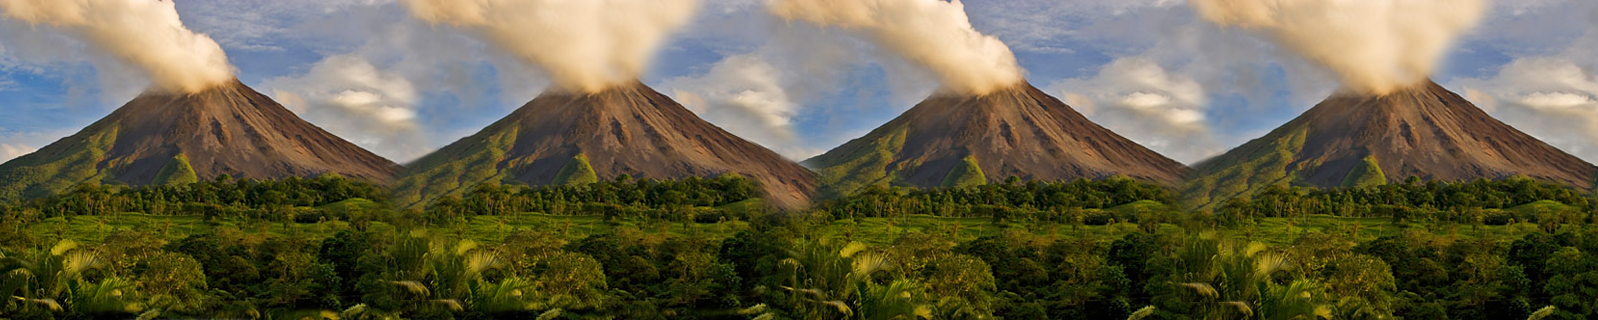
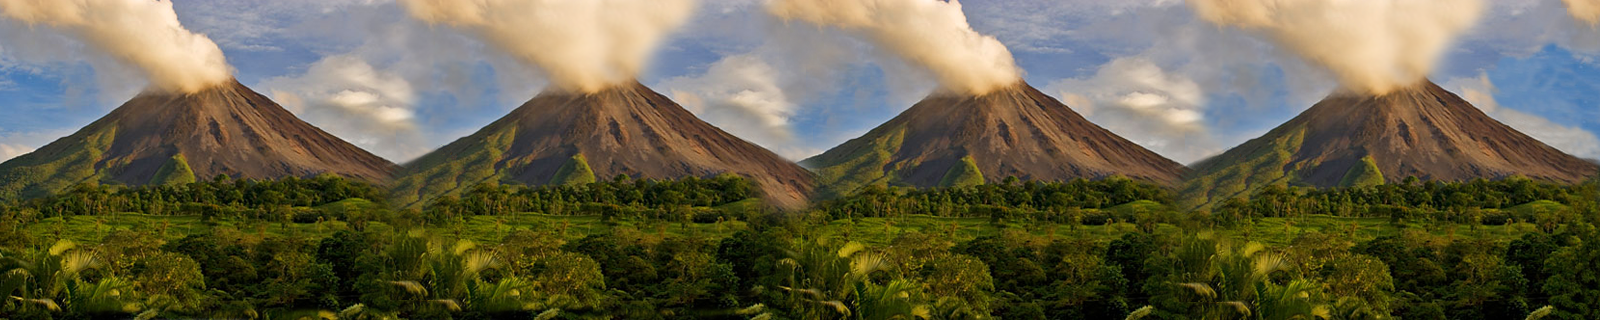
contrasaurus" bite triggers before he runs into enemies

diff --git a/site/javascripts/contrasaurus/game_object.js b/site/javascripts/contrasaurus/game_object.js
@@ -22,6 +22,25 @@ function GameObject(I) {
     yVelocity: 0
   });
 
+  function dropPowerup(imgFile, callback) {
+    addGameObject(Powerup({
+      callback: callback,
+      sprite: Sprite.load("images/weapons/" + imgFile + ".png"),
+      x: dino.position().x,
+      xVelocity: dino.velocity().x,
+      y: 0,
+      yVelocity: 0
+    }));
+  }
+
+  function dropWeaponPowerup(imgFile, weaponClass) {
+    dropPowerup(imgFile, function(hitTarget) {
+      if(hitTarget.addWeapon) {
+        hitTarget.addWeapon(weaponClass());
+      }
+    });
+  }
+
   function move() {
     I.x += I.xVelocity;
     I.y += I.yVelocity;
@@ -55,6 +74,9 @@ function GameObject(I) {
       if (I.active == true) {
         I.active = false;
         self.trigger('destroy');
+        if(I.drops && Math.random() < I.dropFrequency) {
+          dropWeaponPowerup("chainsaw", Chainsaw)
+        }
       }
     },
 
@@ -140,6 +162,11 @@ function GameObject(I) {
       if (I.health <= 0) {
         self.destroy();
         addScore(I.pointsWorth);
+      }
+
+      // HAX: there is probably a better way to trigger the bite animation
+      if(I.collisionType === "biteTrigger") {
+        dino.bump();
       }
     },
 

diff --git a/site/javascripts/contrasaurus/levels/level.js b/site/javascripts/contrasaurus/levels/level.js
@@ -61,7 +61,9 @@ function Level(I) {
       enemy: [],
       enemyBullet: [],
       dino: [],
-      dinoBullet: []
+      dinoBullet: [],
+      biteTrigger: [],
+      levelHazard: []
     };
   }
 
@@ -92,8 +94,26 @@ function Level(I) {
       });
     });
 
+    // Level hazards can hit both dinos and enemies
+//    $.each(collidables.levelHazards, function(i, bullet) {
+//      $.each(collidables.dino, function(j, dino) {
+//        circleCollision(bullet, dino);
+//      });
+//
+//      $.each(collidables.enemy, function(j, enemy) {
+//        circleCollision(bullet, enemy);
+//      });
+//    });
+
     // Dino bullets can hit enemies
     $.each(collidables.dinoBullet, function(i, bullet) {
+      $.each(collidables.enemy, function(j, enemy) {
+        circleCollision(bullet, enemy);
+      });
+    });
+
+    // Bite triggers can hit enemies
+    $.each(collidables.biteTrigger, function(i, bullet) {
       $.each(collidables.enemy, function(j, enemy) {
         circleCollision(bullet, enemy);
       });

diff --git a/site/javascripts/contrasaurus/weapons/bite.js b/site/javascripts/contrasaurus/weapons/bite.js
@@ -1,0 +1,33 @@
+function Bite(I) {
+  I = I || {};
+
+  $.reverseMerge(I, {
+    duration: 1000,
+    exitPoints: [Point(50, 60)],
+    radius: 5,
+    sprite: Sprite.EMPTY,
+    theta: 0
+  });
+
+  var self = Weapon(I).extend({
+    getTransform: function() {
+      return Matrix.rotation(I.theta, Point(-52, -12)).translate(122, -5);
+    },
+
+    generateProjectile: function(direction, position) {
+      return Bullet(direction, {
+        collideDamage: 0,
+        collisionType: "biteTrigger",
+        duration: 1,
+        effectCount: 0,
+        speed: 0,
+        sprite: Sprite.EMPTY,
+        radius: 10,
+        x: position.x,
+        y: position.y
+      });
+    }
+  });
+
+  return self;
+}

diff --git a/site/javascripts/contrasaurus/dinosaur.js b/site/javascripts/contrasaurus/dinosaur.js
@@ -3,6 +3,7 @@ function Dinosaur() {
   var height = 128;
 
   var jetpack = Jetpack();
+  var bite = Bite();
 
   //using this to indicate the first time the jetpack goes off
   var jetpackFlag = false;
@@ -20,8 +21,8 @@ function Dinosaur() {
   var boss = false;
   var airborne = true;
 
-  var weapons = [];
-  var activeWeapons = [];
+  var weapons = [bite];
+  var activeWeapons = [bite];
 
   var pitchAngle = 0;
   var leftBaseAngle = Math.PI;

diff --git a/site/javascripts/contrasaurus/weapons/jetpack.js b/site/javascripts/contrasaurus/weapons/jetpack.js
@@ -68,9 +68,9 @@ function Jetpack(I) {
     shoot: $.noop,
 
     update: function() {
-      if(Math.random() < 0.01 && I.jetpackCounter <= 0) {
-        I.jetpackCounter = 50 + rand(50);
-      }
+//      if(Math.random() < 0.01 && I.jetpackCounter <= 0) {
+//        I.jetpackCounter = 50 + rand(50);
+//      }
 
       if (I.jetpackCounter > 0) {
         I.jetpackCounter--;

diff --git a/site/javascripts/contrasaurus/enemies/enemy.js b/site/javascripts/contrasaurus/enemies/enemy.js
@@ -4,6 +4,8 @@ function Enemy(I) {
   $.reverseMerge(I, {
     collideDamage: 1,
     collisionType: "enemy",
+    dropFrequency: 0.03,
+    drops: ["LaserGun", "meat", "Chainsaw"],
     health: 3,
     hFlip: false,
     onFire: false,

diff --git a/site/javascripts/contrasaurus/projectiles/meteor.js b/site/javascripts/contrasaurus/projectiles/meteor.js
@@ -10,7 +10,7 @@ function Meteor(I) {
     height: 36,
     radius: 12,
     collideDamage: 10,
-    collisionType: "enemyBullet",
+    collisionType: "levelHazard",
     xVelocity: [
       3,
       -3

diff --git a/site/javascripts/contrasaurus/levels/prehistoric.js b/site/javascripts/contrasaurus/levels/prehistoric.js
@@ -118,7 +118,7 @@
         y: 0
       },
       repeat: true,
-      width: 1598
+      width: 1600
     }
   ], generateForegroundScenary());
 
